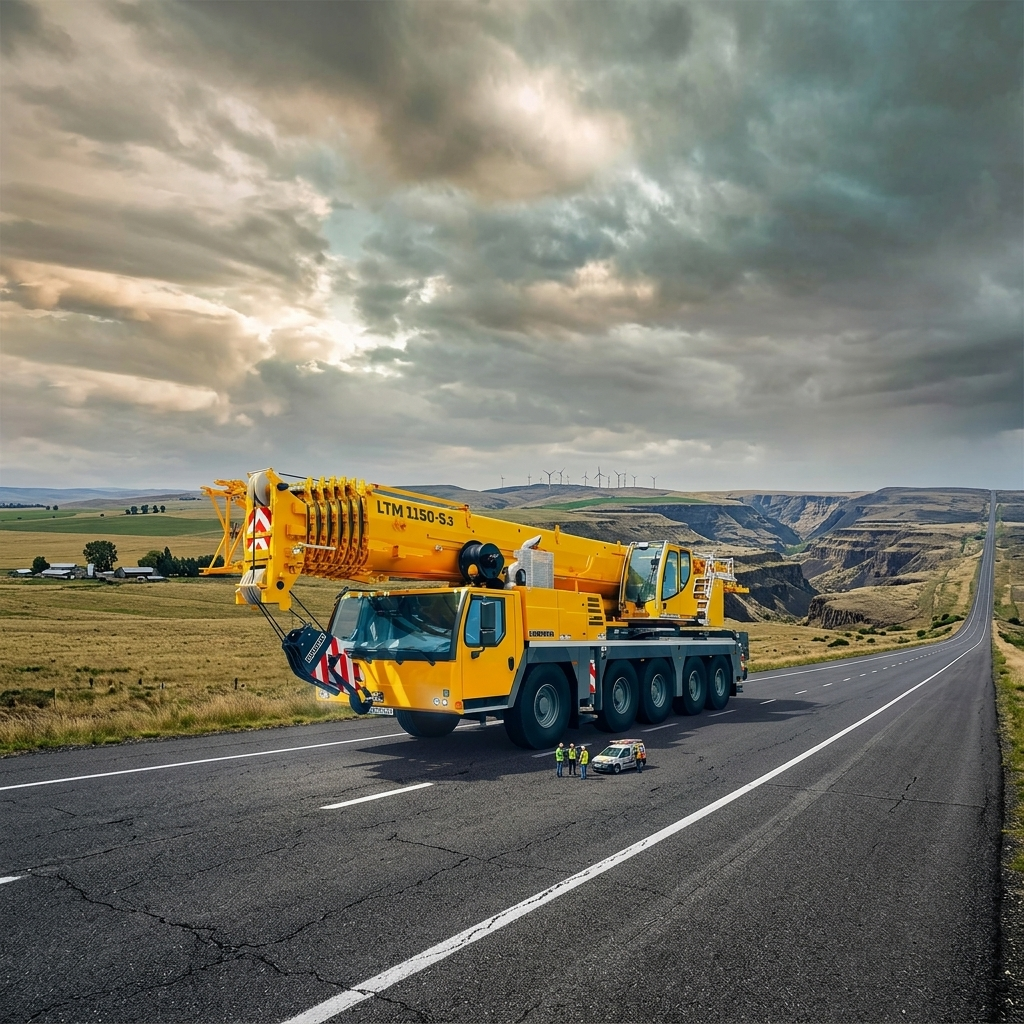
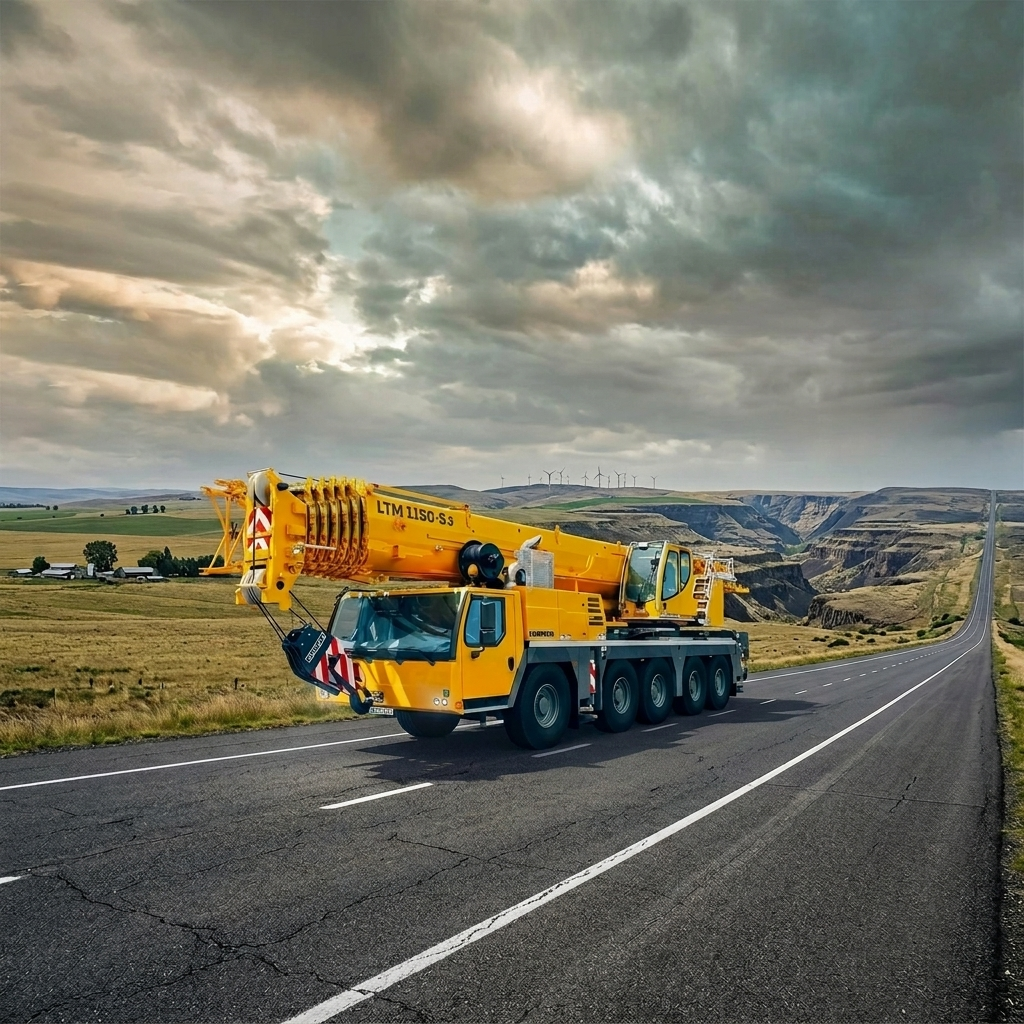
feat: update site branding, adjust hero image brightness, and refactor hero section layout

diff --git a/index.html b/index.html
@@ -4,7 +4,7 @@
 <head>
     <meta charset="UTF-8">
     <meta name="viewport" content="width=device-width, initial-scale=1.0">
-    <title>GREEN POWER - Lifting, Handling & Earthmoving Equipment Rental UAE</title>
+    <title>GREEN POWER - EQUIPMENT RENTING - Lifting, Handling & Earthmoving Equipment Rental UAE</title>
     <meta name="description"
         content="GREEN POWER EQUIPMENT RENTING LLC. SPC is a leading provider of Lifting, Handling, and Earthmoving Equipment rental services in the UAE. Reliable machinery and expert operators.">
     <meta name="keywords"
@@ -15,7 +15,8 @@
     <!-- Open Graph / Facebook -->
     <meta property="og:type" content="website">
     <meta property="og:url" content="https://green-uae.com/">
-    <meta property="og:title" content="GREEN POWER - Lifting, Handling & Earthmoving Equipment Rental UAE">
+    <meta property="og:title"
+        content="GREEN POWER - EQUIPMENT RENTING - Lifting, Handling & Earthmoving Equipment Rental UAE">
     <meta property="og:description"
         content="GREEN POWER EQUIPMENT RENTING LLC. SPC is a leading provider of Lifting, Handling, and Earthmoving Equipment rental services in the UAE. Reliable machinery and expert operators.">
     <meta property="og:image" content="https://green-uae.com/img/GreenPower/bg-1.jpg">
@@ -46,46 +47,46 @@
 
     <!-- Structured Data -->
     <script type="application/ld+json">
-    {
-        "@context": "https://schema.org",
-        "@type": "LocalBusiness",
-        "name": "GREEN POWER EQUIPMENT RENTING LLC. SPC",
-        "url": "https://green-uae.com/",
-        "logo": "https://green-uae.com/img/GreenPower/logo.png",
-        "description": "GREEN POWER specializes in the rental of Lifting, Handling, and Earthmoving Equipment, delivering reliable machinery and professional operators across the UAE.",
-        "address": {
-            "@type": "PostalAddress",
-            "addressLocality": "Abu Dhabi",
-            "addressCountry": "AE"
-        },
-        "contactPoint": {
-            "@type": "ContactPoint",
-            "contactType": "Customer Service"
-        },
-        "offers": [
-            {
-                "@type": "Offer",
-                "name": "Mobile Cranes Rental"
+        {
+            "@context": "https://schema.org",
+            "@type": "LocalBusiness",
+            "name": "GREEN POWER EQUIPMENT RENTING LLC. SPC",
+            "url": "https://green-uae.com/",
+            "logo": "https://green-uae.com/img/GreenPower/logo.png",
+            "description": "GREEN POWER specializes in the rental of Lifting, Handling, and Earthmoving Equipment, delivering reliable machinery and professional operators across the UAE.",
+            "address": {
+                "@type": "PostalAddress",
+                "addressLocality": "Abu Dhabi",
+                "addressCountry": "AE"
             },
-            {
-                "@type": "Offer",
-                "name": "Forklifts Rental"
+            "contactPoint": {
+                "@type": "ContactPoint",
+                "contactType": "Customer Service"
             },
-            {
-                "@type": "Offer",
-                "name": "Excavators Rental"
-            },
-            {
-                "@type": "Offer",
-                "name": "Diesel Generators Rental"
-            },
-            {
-                "@type": "Offer",
-                "name": "JCB 3 CX Rental"
-            }
-        ]
-    }
-    </script>
+            "offers": [
+                {
+                    "@type": "Offer",
+                    "name": "Mobile Cranes Rental"
+                },
+                {
+                    "@type": "Offer",
+                    "name": "Forklifts Rental"
+                },
+                {
+                    "@type": "Offer",
+                    "name": "Excavators Rental"
+                },
+                {
+                    "@type": "Offer",
+                    "name": "Diesel Generators Rental"
+                },
+                {
+                    "@type": "Offer",
+                    "name": "JCB 3 CX Rental"
+                }
+            ]
+        }
+        </script>
 </head>
 
 <body>
@@ -107,8 +108,7 @@
                     <li class="nav-item"><a class="nav-link px-3" href="#about">About Us</a></li>
                     <li class="nav-item"><a class="nav-link px-3" href="#equipment">Our Equipment</a></li>
                     <li class="nav-item"><a class="nav-link px-3" href="#safety">Safety & Compliance</a></li>
-                    <li class="nav-item ms-lg-3"><a
-                            class="btn btn-success btn-sm px-4 rounded-pill text-white"
+                    <li class="nav-item ms-lg-3"><a class="btn btn-success btn-sm px-4 rounded-pill text-white"
                             href="#contact" style="background-color: #2E6F40; border-color: #2E6F40 !important;">Get A
                             Quote</a></li>
                 </ul>
@@ -123,91 +123,108 @@
                 <div class="carousel-inner h-100">
                     <div class="carousel-item active h-100">
                         <img src="img/GreenPower/bg-1.jpg" class="d-block w-100 h-100 object-fit-cover"
-                            alt="Lifting and Handling Equipment" style="object-fit:cover; filter: brightness(0.4);">
+                            alt="Lifting and Handling Equipment" style="object-fit:cover; filter: brightness(0.8);">
                         <div
                             class="carousel-caption animate__animated animate__fadeInDown fade-in d-flex flex-column justify-content-center align-items-center">
                             <span class="badge bg-success mb-2 px-3 py-2 text-uppercase fs-6 tracking-wide"
                                 style="background-color: #2E6F40 !important;">Welcome to Green Power</span>
-                            <h1 class="display-4 fw-bold text-white text-center">Equipment Renting LLC. SPC</h1>
-                            <p class="lead text-light text-center max-w-600">Specializing in the rental of heavy
-                                Lifting, Handling, and Earthmoving Machinery across the UAE.</p>
-                            <div class="mt-3">
-                                <a href="#equipment" class="btn btn-success btn-lg px-4 py-2 me-2 rounded-pill shadow"
-                                    style="background-color: #2E6F40; border-color: #2E6F40;">View Equipment</a>
-                                <a href="#contact"
-                                    class="btn btn-outline-light btn-lg px-4 py-2 rounded-pill shadow">Request a
-                                    Quote</a>
-                            </div>
+                            <h6 class="display-6 fw-bold text-white text-center">Equipment Renting LLC. SPC</h1>
+                                <p class="lead text-light text-center max-w-600">Specializing in the rental of heavy
+                                    Lifting, Handling, and Earthmoving Machinery across the UAE.</p>
+                                <div class="mt-3">
+                                    <a href="#equipment"
+                                        class="btn btn-success btn-lg px-4 py-2 me-2 rounded-pill shadow responsive-btn"
+                                        style="background-color: #2E6F40; border-color: #2E6F40;">View Equipment</a>
+                                    <a href="#contact"
+                                        class="btn btn-outline-light btn-lg px-4 py-2 rounded-pill shadow responsive-btn">Request
+                                        a
+                                        Quote</a>
+                                </div>
                         </div>
                     </div>
                     <div class="carousel-item h-100">
                         <img src="img/GreenPower/bg-2.jpg" class="d-block w-100 h-100 object-fit-cover"
-                            alt="Heavy Machinery Fleet" style="object-fit:cover; filter: brightness(0.4);">
+                            alt="Heavy Machinery Fleet" style="object-fit:cover; filter: brightness(0.8);">
                         <div
                             class="carousel-caption animate__animated animate__fadeInDown fade-in d-flex flex-column justify-content-center align-items-center">
                             <span class="badge bg-success mb-2 px-3 py-2 text-uppercase fs-6 tracking-wide"
                                 style="background-color: #2E6F40 !important;">Reliable Machinery</span>
-                            <h1 class="display-4 fw-bold text-white text-center">Optimal Site Performance</h1>
-                            <p class="lead text-light text-center max-w-600">All machinery is strictly maintained in
-                                excellent working condition to ensure safety and efficiency.</p>
-                            <div class="mt-3">
-                                <a href="#safety" class="btn btn-success btn-lg px-4 py-2 me-2 rounded-pill shadow"
-                                    style="background-color: #2E6F40; border-color: #2E6F40;">Our Safety Standards</a>
-                                <a href="#contact"
-                                    class="btn btn-outline-light btn-lg px-4 py-2 rounded-pill shadow">Contact Team</a>
-                            </div>
+                            <h6 class="display-6 fw-bold text-white text-center">Optimal Site Performance</h1>
+                                <p class="lead text-light text-center max-w-600">All machinery is strictly maintained in
+                                    excellent working condition to ensure safety and efficiency.</p>
+                                <div class="mt-3">
+                                    <a href="#safety"
+                                        class="btn btn-success btn-lg px-4 py-2 me-2 rounded-pill shadow responsive-btn"
+                                        style="background-color: #2E6F40; border-color: #2E6F40;">Safety
+                                        Standards</a>
+                                    <a href="#contact"
+                                        class="btn btn-outline-light btn-lg px-4 py-2 rounded-pill shadow responsive-btn">Contact
+                                        Team</a>
+                                </div>
                         </div>
                     </div>
                     <div class="carousel-item h-100">
                         <img src="img/GreenPower/bg-3.jpg" class="d-block w-100 h-100 object-fit-cover"
-                            alt="Skilled Construction Operators" style="object-fit:cover; filter: brightness(0.4);">
+                            alt="Skilled Construction Operators" style="object-fit:cover; filter: brightness(0.8);">
                         <div
                             class="carousel-caption animate__animated animate__fadeInDown fade-in d-flex flex-column justify-content-center align-items-center">
                             <span class="badge bg-success mb-2 px-3 py-2 text-uppercase fs-6 tracking-wide"
                                 style="background-color: #2E6F40 !important;">Professional Team</span>
-                            <h1 class="display-4 fw-bold text-white text-center">Highly Experienced Operators</h1>
-                            <p class="lead text-light text-center max-w-600">Operators skilled in handling all types of
-                                machinery with maximum professionalism and efficiency.</p>
-                            <div class="mt-3">
-                                <a href="#contact" class="btn btn-success btn-lg px-4 py-2 me-2 rounded-pill shadow"
-                                    style="background-color: #2E6F40; border-color: #2E6F40;">Send Inquiry</a>
-                                <a href="#about"
-                                    class="btn btn-outline-light btn-lg px-4 py-2 rounded-pill shadow">About Us</a>
-                            </div>
+                            <h6 class="display-6 fw-bold text-white text-center">Highly Experienced Operators</h1>
+                                <p class="lead text-light text-center max-w-600">Operators skilled in handling all types
+                                    of
+                                    machinery with maximum professionalism and efficiency.</p>
+                                <div class="mt-3">
+                                    <a href="#contact"
+                                        class="btn btn-success btn-lg px-4 py-2 me-2 rounded-pill shadow responsive-btn"
+                                        style="background-color: #2E6F40; border-color: #2E6F40;">Send Inquiry</a>
+                                    <a href="#about"
+                                        class="btn btn-outline-light btn-lg px-4 py-2 rounded-pill shadow responsive-btn">About
+                                        Us</a>
+                                </div>
                         </div>
                     </div>
                     <div class="carousel-item h-100">
                         <img src="img/GreenPower/fleet-1.jpg" class="d-block w-100 h-100 object-fit-cover"
-                            alt="Modern Heavy Equipment Fleet" style="object-fit:cover; filter: brightness(0.4);">
+                            alt="Modern Heavy Equipment Fleet" style="object-fit:cover; filter: brightness( 0.8);">
                         <div
                             class="carousel-caption animate__animated animate__fadeInDown fade-in d-flex flex-column justify-content-center align-items-center">
                             <span class="badge bg-success mb-2 px-3 py-2 text-uppercase fs-6 tracking-wide"
                                 style="background-color: #2E6F40 !important;">Modern Fleet</span>
-                            <h1 class="display-4 fw-bold text-white text-center">Diverse Heavy Equipment</h1>
-                            <p class="lead text-light text-center max-w-600">A versatile and modern fleet designed to cater to all your complex lifting and earthmoving project requirements.</p>
-                            <div class="mt-3">
-                                <a href="#equipment" class="btn btn-success btn-lg px-4 py-2 me-2 rounded-pill shadow"
-                                    style="background-color: #2E6F40; border-color: #2E6F40;">View Equipment</a>
-                                <a href="#contact"
-                                    class="btn btn-outline-light btn-lg px-4 py-2 rounded-pill shadow">Request a Quote</a>
-                            </div>
+                            <h6 class="display-6 fw-bold text-white text-center">Diverse Heavy Equipment</h1>
+                                <p class="lead text-light text-center max-w-600">A versatile and modern fleet designed
+                                    to
+                                    cater to all your complex lifting and earthmoving project requirements.</p>
+                                <div class="mt-3">
+                                    <a href="#equipment"
+                                        class="btn btn-success btn-lg px-4 py-2 me-2 rounded-pill shadow responsive-btn"
+                                        style="background-color: #2E6F40; border-color: #2E6F40;">View Equipment</a>
+                                    <a href="#contact"
+                                        class="btn btn-outline-light btn-lg px-4 py-2 rounded-pill shadow responsive-btn">Request
+                                        a
+                                        Quote</a>
+                                </div>
                         </div>
                     </div>
                     <div class="carousel-item h-100">
                         <img src="img/GreenPower/fleet-2.jpg" class="d-block w-100 h-100 object-fit-cover"
-                            alt="Reliable Machinery on Site" style="object-fit:cover; filter: brightness(0.4);">
+                            alt="Reliable Machinery on Site" style="object-fit:cover; filter: brightness(0.8);">
                         <div
                             class="carousel-caption animate__animated animate__fadeInDown fade-in d-flex flex-column justify-content-center align-items-center">
                             <span class="badge bg-success mb-2 px-3 py-2 text-uppercase fs-6 tracking-wide"
                                 style="background-color: #2E6F40 !important;">Flexible Rentals</span>
-                            <h1 class="display-4 fw-bold text-white text-center">Tailored Project Solutions</h1>
-                            <p class="lead text-light text-center max-w-600">Offering short-term and long-term rental plans custom fit for your construction and utility needs.</p>
-                            <div class="mt-3">
-                                <a href="#contact" class="btn btn-success btn-lg px-4 py-2 me-2 rounded-pill shadow"
-                                    style="background-color: #2E6F40; border-color: #2E6F40;">Partner With Us</a>
-                                <a href="#safety"
-                                    class="btn btn-outline-light btn-lg px-4 py-2 rounded-pill shadow">Our Safety Standards</a>
-                            </div>
+                            <h6 class="display-6 fw-bold text-white text-center">Tailored Project Solutions</h1>
+                                <p class="lead text-light text-center max-w-600">Offering short-term and long-term
+                                    rental
+                                    plans custom fit for your construction and utility needs.</p>
+                                <div class="mt-3">
+                                    <a href="#contact"
+                                        class="btn btn-success btn-lg px-4 py-2 me-2 rounded-pill shadow  responsive-btn"
+                                        style="background-color: #2E6F40; border-color: #2E6F40;">Partner With Us</a>
+                                    <a href="#safety"
+                                        class="btn btn-outline-light btn-lg px-4 py-2 rounded-pill shadow responsive-btn">
+                                        Safety Standards</a>
+                                </div>
                         </div>
                     </div>
                 </div>
@@ -735,17 +752,17 @@
             // Form Submit handler - Mailto
             $('#rentalInquiryForm').on('submit', function (e) {
                 e.preventDefault();
-                
+
                 const fullName = $('#fullName').val();
                 const companyName = $('#companyName').val();
                 const emailAddr = $('#emailAddr').val();
                 const phoneNum = $('#phoneNum').val();
                 const equipmentType = $('#equipmentType').val();
                 const inquiryMessage = $('#inquiryMessage').val();
-                
+
                 const emailTo = 'sales@green-uae.com';
                 const subject = encodeURIComponent('Equipment Rental Inquiry - ' + companyName);
-                
+
                 const body = encodeURIComponent(
                     'Dear Green Power Team,\n\n' +
                     'I would like to request a quote with the following details:\n\n' +
@@ -757,7 +774,7 @@
                     'Message / Project Requirements:\n' + inquiryMessage + '\n\n' +
                     'Best regards,\n' + fullName
                 );
-                
+
                 window.location.href = 'mailto:' + emailTo + '?subject=' + subject + '&body=' + body;
             });
         });
@@ -780,7 +797,7 @@
         }
 
         .hero-carousel .carousel-caption {
-            background: rgba(18, 38, 20, 0.75);
+            background: rgba(18, 38, 20, 0.3);
             padding: 3rem;
             border-radius: 1rem;
             backdrop-filter: blur(8px);
@@ -830,6 +847,16 @@
 
         .tracking-wide {
             letter-spacing: 1px;
+        }
+
+        @media (max-width: 767px) {
+            .responsive-btn {
+                padding: .25rem .5rem;
+                font-size: .875rem;
+                line-height: 1.5;
+                border-radius: .2rem;
+                margin-bottom: 1rem;
+            }
         }
     </style>
 </body>
